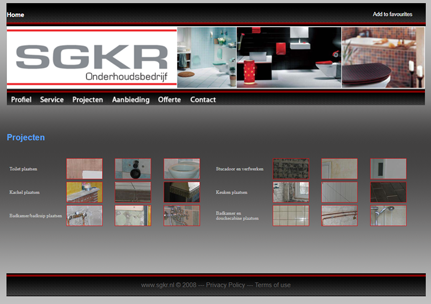
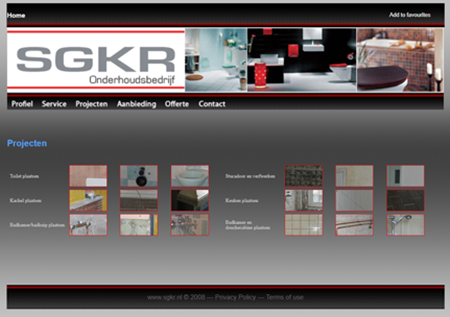
added old website

diff --git a/index.html b/index.html
@@ -351,16 +351,18 @@ Wanting to challenge myself more, i joined the Wild Code School. I am a proficie
                     <p>Hackathon 24 hours | 3 persons</p>
                 </div>
             </div>
-        
-            <!-- <div class="works_img">
-                <img src="/assets/img/sgkr_old_work.png" alt="">
-                <div class="works_data">
-                    <a href="http://www.sgkr.nl/index.html" target="_blank" class="works_link"><i class="bx bx-link-alt"></i></a>
-                    <span class="works_title">Website from 2008</span>
-                    <p>Created with: Html | Dreamweaver</p>
+            <div class="works_img">
+              <img src="/assets/img/expense_tracker.jpg" alt="">
+              <div class="works_data">
+                <a href="https://github.com/martinigonsalvess/Expense_tracker"target="_blank" class="works_link"><i class="bx bxl-github"></i></a>
+                  <a href="https://whatsurexpense-tracker.netlify.app/" target="_blank"class="works_link"><i class="bx bx-link-alt"></i></a>
+                  <span class="works_title">Expense Tracker</span>
+                  <p>Created with: ReactJS | 2021 </p>
+                  <p>With help of Udemy: Academind </p>                   
 
-                </div>
-            </div> -->
+              </div>
+          </div>
+        
             <div class="works_img">
                 <img src="/assets/img/kiki_tours.jpg" alt="">
                 <div class="works_data">
@@ -371,15 +373,13 @@ Wanting to challenge myself more, i joined the Wild Code School. I am a proficie
 
                 </div>
             </div>
-            <div class="works_img">
-                <img src="/assets/img/expense_tracker.jpg" alt="">
+           
+                <div class="works_img">
+                <img src="/assets/img/sgkr_old_work.png" alt="">
                 <div class="works_data">
-                  <a href="https://github.com/martinigonsalvess/Expense_tracker"target="_blank" class="works_link"><i class="bx bxl-github"></i></a>
-                    <a href="https://whatsurexpense-tracker.netlify.app/" target="_blank"class="works_link"><i class="bx bx-link-alt"></i></a>
-                    <span class="works_title">Expense Tracker</span>
-                    <p>Created with: ReactJS | 2021 </p>
-                    <p>With help of Udemy: Academind </p>
-                    
+                    <a href="http://www.sgkr.nl/index.html" target="_blank" class="works_link"><i class="bx bx-link-alt"></i></a>
+                    <span class="works_title">Website SGKR</span>
+                    <p>Created with: Html | Dreamweaver | 2008</p>
 
                 </div>
             </div>
